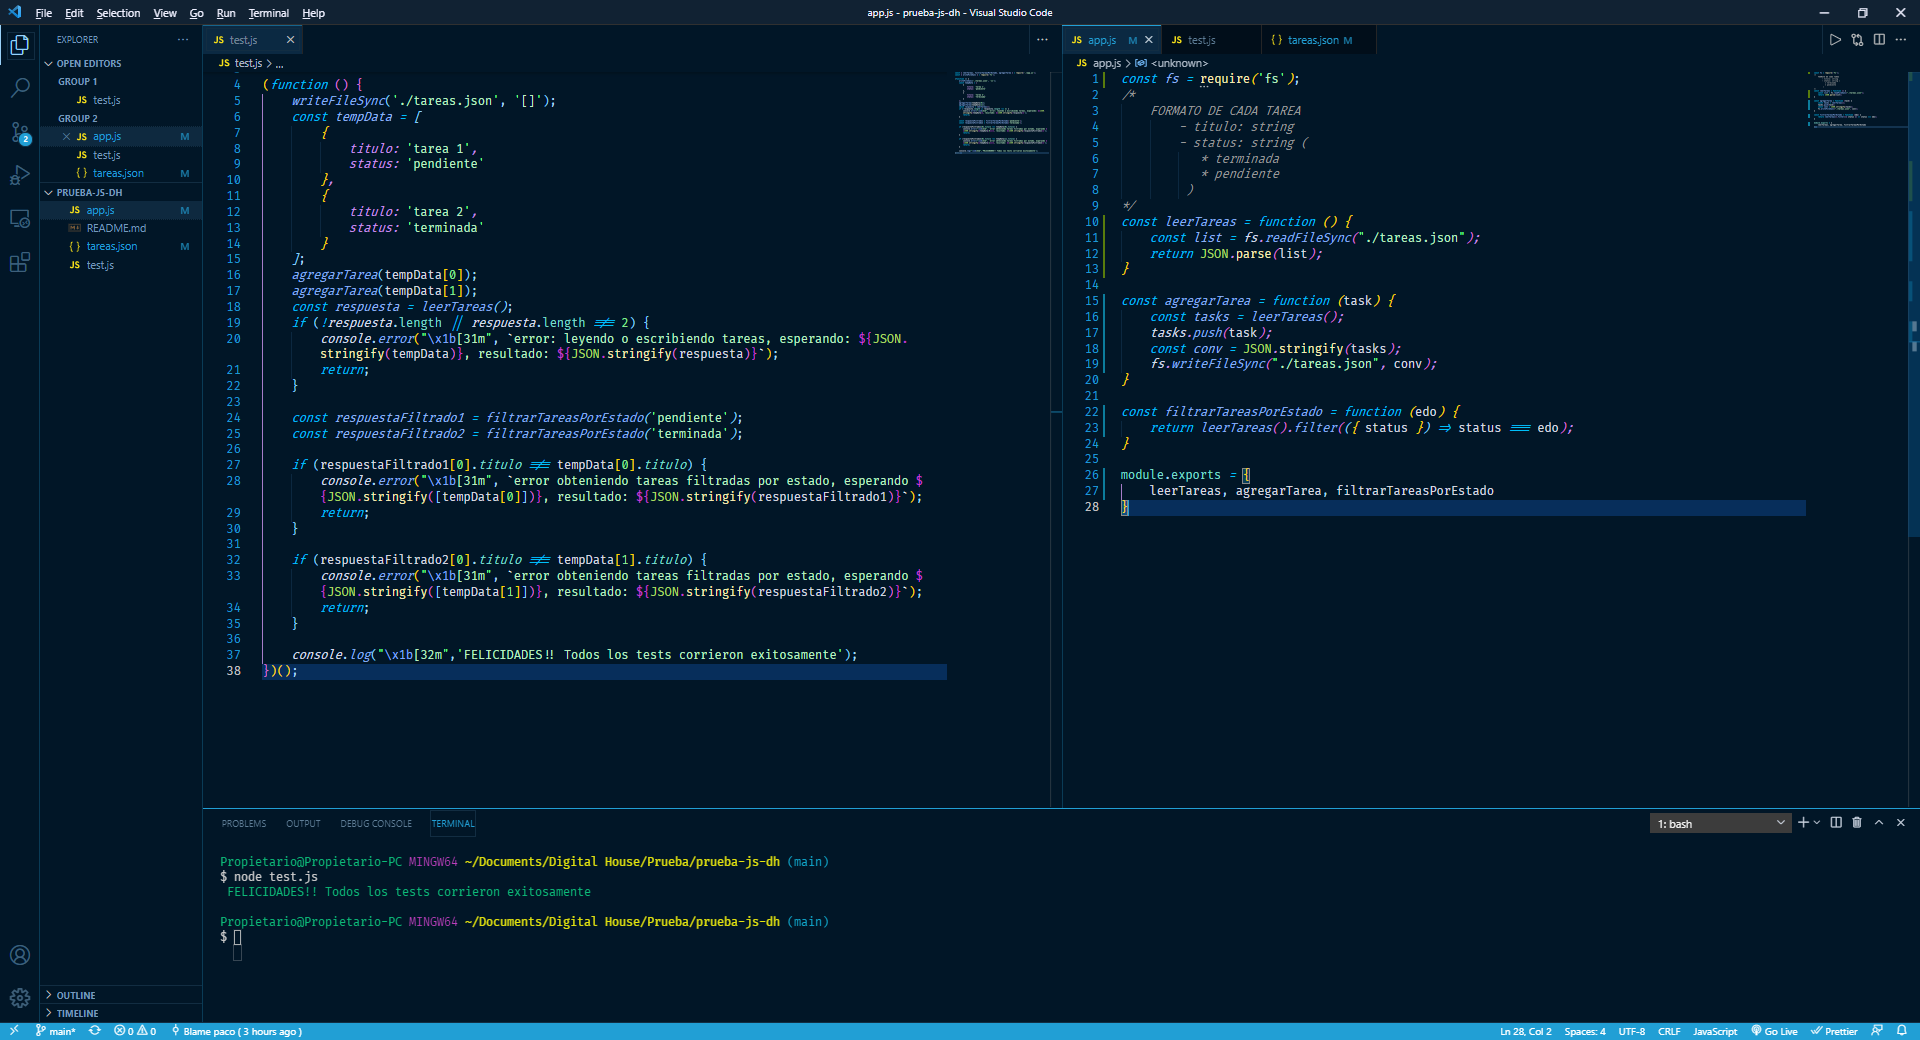
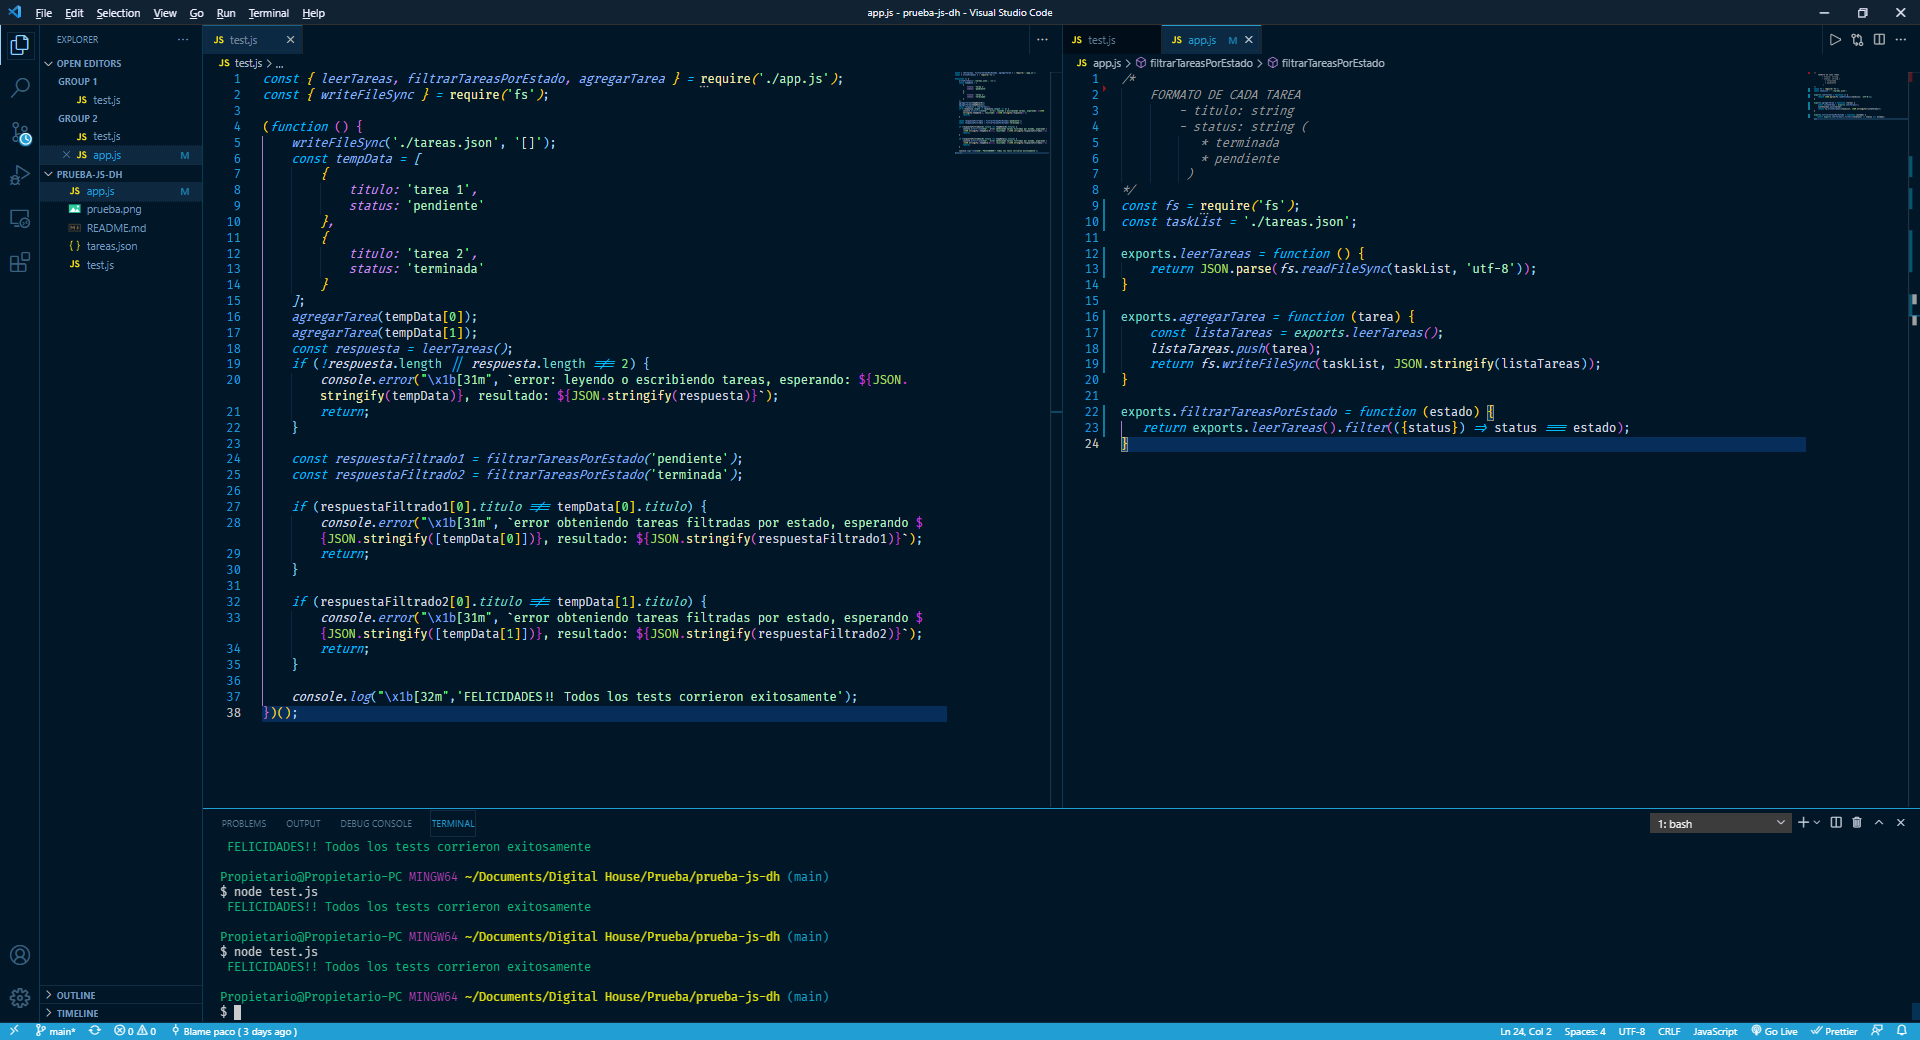
Ejercicio terminado

diff --git a/app.js b/app.js
@@ -1,4 +1,3 @@
-const fs = require('fs');
 /*
     FORMATO DE CADA TAREA
         - titulo: string
@@ -7,22 +6,19 @@ const fs = require('fs');
            * pendiente
          )
 */
-const leerTareas = function () {
-    const list = fs.readFileSync("./tareas.json");
-    return JSON.parse(list);
+const fs = require('fs');
+const taskList = './tareas.json';
+
+exports.leerTareas = function () {
+    return JSON.parse(fs.readFileSync(taskList, 'utf-8'));
 }
 
-const agregarTarea = function (task) {
-    const tasks = leerTareas();
-    tasks.push(task);
-    const conv = JSON.stringify(tasks);
-    fs.writeFileSync("./tareas.json", conv);
+exports.agregarTarea = function (tarea) {
+    const listaTareas = exports.leerTareas();
+    listaTareas.push(tarea);
+    return fs.writeFileSync(taskList, JSON.stringify(listaTareas));
 }
 
-const filtrarTareasPorEstado = function (edo) {
-    return leerTareas().filter(({ status }) => status === edo);
-}
-
-module.exports = {
-    leerTareas, agregarTarea, filtrarTareasPorEstado
+exports.filtrarTareasPorEstado = function (estado) {
+   return exports.leerTareas().filter(({status}) => status === estado);
 }
